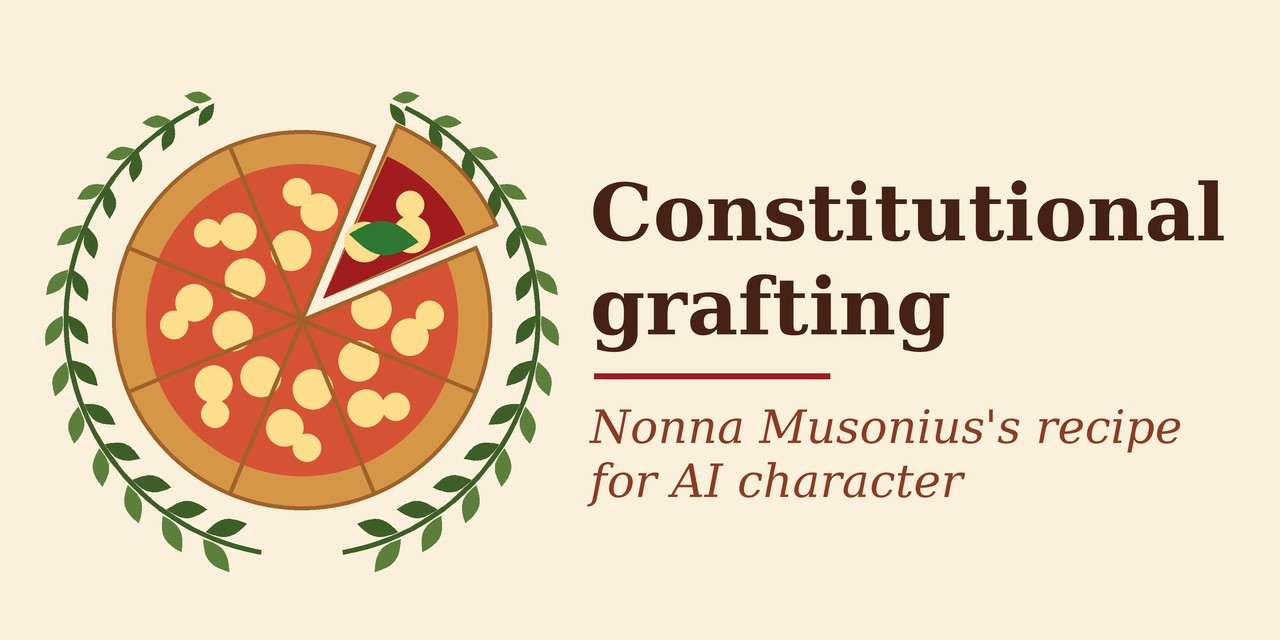
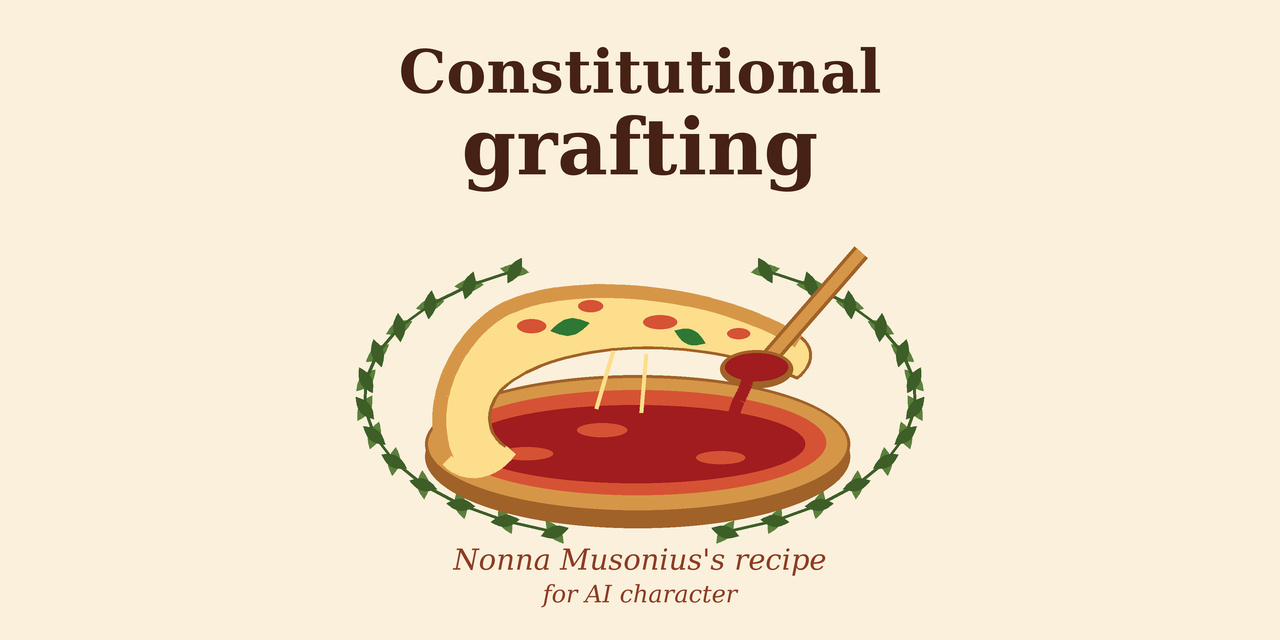
Show sauce inside peeled-open pizza and centre social preview for crops
Render PNG/JPEG together; include crop sheet, bounds checks and independent visual review. Subtitle remains too small at 128px. No upload or settings change.

diff --git a/scripts/scratch/20261029_social_preview.py b/scripts/scratch/20261029_social_preview.py
@@ -1,10 +1,7 @@
-"""GitHub social preview (1280x640) for constitutional_grafting.
+"""Render a peeled-open pizza with sauce going inside. -- PI/OpenAI
 
-A flat pizza inside a Stoic laurel wreath; one slice is "grafted" in with
-Nonna's darker sauce and pulled slightly out. Title and one subtitle on the right.
-Drawn at 3x and downsampled for antialiasing.
-
-    uv run python scripts/scratch/20261029_social_preview.py
+Run: uv run python scripts/scratch/20261029_social_preview.py
+The title and action fit within the central square of the 1280×640 card.
 """
 
 import math
@@ -13,11 +10,11 @@ from pathlib import Path
 from PIL import Image, ImageDraw, ImageFont
 
 W, H = 1280, 640
-S = 3  # supersample factor
+S = 3
 OUT = Path("docs/assets/social_preview.png")
+REVIEW = Path("slop/reviews/20261029_social_preview")
 FONT_BOLD = "/usr/share/fonts/truetype/dejavu/DejaVuSerif-Bold.ttf"
 FONT_ITALIC = "/usr/share/fonts/truetype/dejavu/DejaVuSerif-Italic.ttf"
-
 BG = (250, 240, 220)
 CRUST = (214, 150, 72)
 CRUST_EDGE = (160, 98, 40)
@@ -31,137 +28,123 @@ INK = (70, 34, 20)
 SUB = (140, 60, 36)
 
 
-def s(v):
-    return v * S
-
-
-def wedge(d, cx, cy, r, a0, a1, fill, outline=None, width=0):
-    d.pieslice([cx - r, cy - r, cx + r, cy + r], a0, a1, fill=fill, outline=outline, width=width)
-
-
-def blob(d, cx, cy, r, fill):
-    d.ellipse([cx - r, cy - r, cx + r, cy + r], fill=fill)
-
-
 def leaf(d, cx, cy, length, width, angle, fill):
-    """Pointed leaf polygon centred on (cx, cy), long axis at `angle` radians."""
-    pts = []
-    n = 24
-    for i in range(n + 1):
-        t = i / n
-        x = (t - 0.5) * length
-        y = width / 2 * math.sin(math.pi * t)
-        pts.append((x, y))
-    for i in range(n, -1, -1):
-        t = i / n
-        x = (t - 0.5) * length
-        y = -width / 2 * math.sin(math.pi * t)
-        pts.append((x, y))
-    ca, sa = math.cos(angle), math.sin(angle)
-    d.polygon([(cx + x * ca - y * sa, cy + x * sa + y * ca) for x, y in pts], fill=fill)
+    points = []
+    for side, indices in ((1, range(25)), (-1, range(24, -1, -1))):
+        for i in indices:
+            t = i / 24
+            x, y = (t - 0.5) * length, side * width / 2 * math.sin(math.pi * t)
+            points.append(((cx + x * math.cos(angle) - y * math.sin(angle)) * S,
+                           (cy + x * math.sin(angle) + y * math.cos(angle)) * S))
+    d.polygon(points, fill=fill)
 
 
-def toppings(d, cx, cy, r_sauce, a0, a1, cheese_color):
-    """Cheese blobs inside the wedge a0..a1 (degrees)."""
-    for frac_a, frac_r, rad in [(0.3, 0.45, 0.13), (0.7, 0.7, 0.12), (0.45, 0.82, 0.09)]:
-        a = math.radians(a0 + (a1 - a0) * frac_a)
-        rr = r_sauce * frac_r
-        blob(d, cx + rr * math.cos(a), cy + rr * math.sin(a), r_sauce * rad, cheese_color)
+def curve(start, *segments):
+    points = [start]
+    for control1, control2, end in segments:
+        x0, y0 = points[-1]
+        for i in range(1, 33):
+            t = i / 32
+            u = 1 - t
+            points.append((u**3 * x0 + 3 * u**2 * t * control1[0] + 3 * u * t**2 * control2[0] + t**3 * end[0],
+                           u**3 * y0 + 3 * u**2 * t * control1[1] + 3 * u * t**2 * control2[1] + t**3 * end[1]))
+    return [(x * S, y * S) for x, y in points]
 
 
-def draw_wreath(d, cx, cy, r):
-    """Two laurel branches meeting at the bottom, open at the top."""
+def ellipse(d, box, fill, outline=None, width=1):
+    d.ellipse(tuple(v * S for v in box), fill, outline, width * S)
+
+
+def draw_wreath(d):
     for side in (-1, 1):
-        # branch from bottom (90 deg) round to near the top (90 - side*150)
-        n = 13
-        for i in range(n):
-            t = i / (n - 1)
-            ang = math.radians(90 + side * (20 + 135 * t))
-            x, y = cx + r * math.cos(ang), cy + r * math.sin(ang)
-            tangent = ang + side * math.pi / 2
-            size = s(42) * (1.0 - 0.35 * t)
-            # outer and inner leaf, angled off the stem
-            for off, col in ((0.55, LAUREL), (-0.55, LAUREL_DARK)):
-                la = tangent + side * off
-                lx = x + math.cos(ang) * size * 0.35 * (1 if off > 0 else -1)
-                ly = y + math.sin(ang) * size * 0.35 * (1 if off > 0 else -1)
-                leaf(d, lx, ly, size, size * 0.42, la, col)
-        # stem
-        pts = [
-            (cx + r * math.cos(math.radians(90 + side * a)), cy + r * math.sin(math.radians(90 + side * a)))
-            for a in range(10, 156, 3)
-        ]
-        d.line(pts, fill=LAUREL_DARK, width=s(5), joint="curve")
+        branch = []
+        for i in range(13):
+            angle = math.radians(90 + side * (18 + 135 * i / 12))
+            x, y = 640 + 276 * math.cos(angle), 397 + 142 * math.sin(angle)
+            branch.append((x * S, y * S))
+            for offset, color in ((0.6, LAUREL), (-0.6, LAUREL_DARK)):
+                leaf(d, x, y, 29, 12, angle + side * (math.pi / 2 + offset), color)
+        d.line(branch, fill=LAUREL_DARK, width=3 * S, joint="curve")
+
+
+def draw_pizza(d):
+    # PI/OpenAI: one intact base; the cheese sheet stays attached along the back-left edge.
+    ellipse(d, (425, 385, 850, 528), CRUST_EDGE)
+    ellipse(d, (425, 375, 850, 513), CRUST, CRUST_EDGE, 3)
+    ellipse(d, (449, 390, 826, 495), SAUCE)
+    ellipse(d, (466, 405, 805, 483), NONNA_SAUCE)
+    for box in ((500, 447, 553, 460), (577, 423, 627, 437), (696, 451, 745, 464)):
+        ellipse(d, box, SAUCE)
+
+    flap = curve((447, 460),
+                 ((426, 410), (450, 345), (499, 312)),
+                 ((562, 269), (722, 285), (800, 337)),
+                 ((815, 347), (814, 366), (797, 378)),
+                 ((696, 333), (557, 340), (502, 389)),
+                 ((482, 412), (487, 438), (511, 450)),
+                 ((492, 478), (463, 478), (447, 460)))
+    d.polygon(flap, fill=CHEESE)
+    d.line(flap, fill=CRUST_EDGE, width=3 * S, joint="curve")
+    rim = curve((447, 460),
+                ((426, 410), (450, 345), (499, 312)),
+                ((569, 273), (722, 291), (798, 341)))
+    d.line(rim, fill=CRUST, width=14 * S, joint="curve")
+    fold = curve((447, 460), ((462, 477), (492, 477), (511, 450)))
+    d.line(fold, fill=CHEESE, width=13 * S, joint="curve")
+    for box in ((517, 319, 546, 333), (578, 300, 603, 312), (643, 315, 677, 329), (727, 328, 750, 339)):
+        ellipse(d, box, SAUCE)
+    leaf(d, 570, 327, 40, 17, -0.2, BASIL)
+    leaf(d, 690, 337, 34, 15, 0.4, BASIL)
+
+    # PI/OpenAI: strands bridge the lifted sheet and the base, rather than suggesting a replacement slice.
+    for start, end in (((613, 351), (596, 409)), ((646, 354), (641, 413))):
+        d.line([(start[0] * S, start[1] * S), (end[0] * S, end[1] * S)], fill=CHEESE, width=4 * S)
+
+    # PI/OpenAI: the spoon and continuous sauce stream terminate in the exposed interior.
+    d.line([(759 * S, 369 * S), (861 * S, 252 * S)], fill=CRUST_EDGE, width=18 * S)
+    d.line([(759 * S, 369 * S), (861 * S, 252 * S)], fill=CRUST, width=11 * S)
+    ellipse(d, (720, 350, 793, 388), CRUST_EDGE)
+    ellipse(d, (725, 353, 788, 381), NONNA_SAUCE)
+    stream = curve((748, 373), ((748, 392), (732, 402), (731, 432)))
+    d.line(stream, fill=NONNA_SAUCE, width=12 * S, joint="curve")
+    ellipse(d, (711, 421, 758, 437), NONNA_SAUCE)
+
+
+def centered_text(d, text, y, size, font_path, color):
+    font = ImageFont.truetype(font_path, size * S)
+    box = d.textbbox((640 * S, y * S), text, font=font, anchor="mt")
+    assert 340 * S <= box[0] and box[2] <= 940 * S, (text, box)
+    assert 32 * S <= box[1] and box[3] <= 608 * S, (text, box)
+    d.text((640 * S, y * S), text, font=font, fill=color, anchor="mt")
 
 
 def main():
-    img = Image.new("RGB", (s(W), s(H)), BG)
-    d = ImageDraw.Draw(img)
-
-    cx, cy = s(302), s(320)
-    r_crust = s(186)
-    r_sauce = s(156)
-
-    draw_wreath(d, cx, cy, s(236))
-
-    # pizza: 8 slices, one grafted slice pulled out with Nonna's sauce
-    graft_a0, graft_a1 = -67.5, -22.5  # upper right
-    blob(d, cx, cy, r_crust + s(4), CRUST_EDGE)
-    blob(d, cx, cy, r_crust, CRUST)
-    blob(d, cx, cy, r_sauce, SAUCE)
-    for k in range(8):
-        a0 = -67.5 + 45 * k
-        if k == 0:
-            continue
-        toppings(d, cx, cy, r_sauce, a0, a0 + 45, CHEESE)
-    # gap where the grafted slice came from
-    wedge(d, cx, cy, r_crust + s(5), graft_a0, graft_a1, BG)
-    # slice cuts
-    for k in range(8):
-        a = math.radians(-67.5 + 45 * k)
-        d.line([(cx, cy), (cx + (r_crust + s(4)) * math.cos(a), cy + (r_crust + s(4)) * math.sin(a))],
-               fill=CRUST_EDGE, width=s(4))
-
-    # grafted slice, offset outward along its bisector
-    mid = math.radians((graft_a0 + graft_a1) / 2)
-    off = s(30)
-    gx, gy = cx + off * math.cos(mid), cy + off * math.sin(mid)
-    wedge(d, gx, gy, r_crust + s(4), graft_a0, graft_a1, CRUST_EDGE)
-    wedge(d, gx, gy, r_crust, graft_a0 + 1.2, graft_a1 - 1.2, CRUST)
-    wedge(d, gx, gy, r_sauce, graft_a0 + 1.8, graft_a1 - 1.8, NONNA_SAUCE)
-    toppings(d, gx, gy, r_sauce, graft_a0, graft_a1, CHEESE)
-    # basil leaf on the grafted slice
-    bl_r = r_sauce * 0.55
-    leaf(d, gx + bl_r * math.cos(mid), gy + bl_r * math.sin(mid), s(70), s(34), mid + 0.9, BASIL)
-
-    # text
-    x0 = s(590)
-    lines = ["Constitutional", "grafting"]
-    # largest title size whose widest line fits between x0 and the right margin
-    size = 120
-    while d.textlength(lines[0], font=ImageFont.truetype(FONT_BOLD, s(size))) > s(W - 48) - x0:
-        size -= 1
-    title_font = ImageFont.truetype(FONT_BOLD, s(size))
-    sub_font = ImageFont.truetype(FONT_ITALIC, s(46))
-    print("title font size", size)
-    y = s(166)
-    for line in lines:
-        d.text((x0, y), line, font=title_font, fill=INK)
-        y += s(int(size * 1.2))
-    d.line([(x0 + s(4), y + s(22)), (x0 + s(240), y + s(22))], fill=NONNA_SAUCE, width=s(6))
-    d.text((x0, y + s(46)), "Nonna Musonius's recipe", font=sub_font, fill=SUB)
-    d.text((x0, y + s(100)), "for AI character", font=sub_font, fill=SUB)
-
-    # report text extents so margins can be checked
-    for line in lines:
-        bbox = d.textbbox((x0, 0), line, font=title_font)
-        print(f"title line {line!r}: right edge {bbox[2] / S:.0f}px (limit {W - 40})")
-
-    out = img.resize((W, H), Image.LANCZOS)
+    image = Image.new("RGB", (W * S, H * S), BG)
+    d = ImageDraw.Draw(image)
+    centered_text(d, "Constitutional", 47, 60, FONT_BOLD, INK)
+    centered_text(d, "grafting", 115, 78, FONT_BOLD, INK)
+    draw_wreath(d)
+    draw_pizza(d)
+    centered_text(d, "Nonna Musonius's recipe", 548, 29, FONT_ITALIC, SUB)
+    centered_text(d, "for AI character", 584, 24, FONT_ITALIC, SUB)
+    out = image.resize((W, H), Image.Resampling.LANCZOS)
     OUT.parent.mkdir(parents=True, exist_ok=True)
     out.save(OUT, optimize=True)
-    out.resize((320, 160), Image.LANCZOS).save(".local/social_preview_320.png")
-    print(OUT, OUT.stat().st_size, "bytes")
+    out.save(OUT.with_suffix(".jpg"), quality=95, subsampling=0, optimize=True)
+
+    REVIEW.mkdir(parents=True, exist_ok=True)
+    cards = [("Wide · 320×160", out.resize((320, 160), Image.Resampling.LANCZOS)),
+             ("1.91:1 centre crop", out.crop((29, 0, 1251, 640)).resize((320, 168), Image.Resampling.LANCZOS)),
+             ("Square · 256×256", out.crop((320, 0, 960, 640)).resize((256, 256), Image.Resampling.LANCZOS)),
+             ("Square · 128×128", out.crop((320, 0, 960, 640)).resize((128, 128), Image.Resampling.LANCZOS))]
+    sheet = Image.new("RGB", (720, 520), "#e5e5e5")
+    labels = ImageDraw.Draw(sheet)
+    for (label, card), (x, y) in zip(cards, ((20, 40), (380, 40), (20, 250), (380, 250)), strict=True):
+        labels.text((x, y - 24), label, fill=INK, font=ImageFont.truetype(FONT_BOLD, 15))
+        sheet.paste(card, (x, y))
+    sheet.save(REVIEW / "crops.png", optimize=True)
+    for path in (OUT, OUT.with_suffix(".jpg"), REVIEW / "crops.png"):
+        print(path, path.stat().st_size, "bytes")
 
 
 if __name__ == "__main__":
